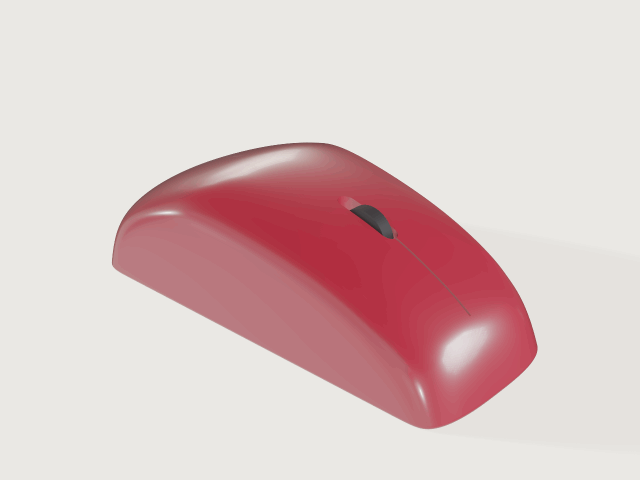
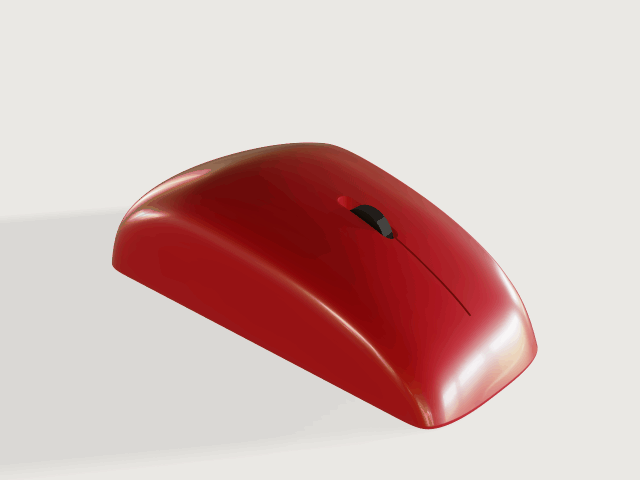
Tank and mouse thumbnails in the Workshop look (METHOD v5); Finding 6's stripe filter is built on main

Changed region(s): [[0.1562, 0.2812, 0.8438, 0.9062]]

diff --git a/docs/design/surfacing.md b/docs/design/surfacing.md
@@ -105,9 +105,9 @@ Built 2026-10-30 (surf-ca3) on stage 2: `hold_tangent` localises three rows when
 
 **Finding 3: crossing curves that leave against the face's tangent plane move far.** The side's curves first left the shoulder almost straight down (77° below horizontal) where the crown leaves it at about 35°: the tangent hold turns each curve's first leg into the crown's plane keeping its speed, and the side bulged 50 mm beyond its curves, through the block it was cut from, which left a flat ellipse of the block's face in the tank (seen in the zebra and the curvature map as a uniform patch, its curvature 0). Steeper crown sections (five points, the shoulder ends at about 60°) fixed the design; the tank asserts its width so that a parameter that makes the side bulge fails by name.
 
-**Finding 6: highlight lines on the tank's sides (2026-10-31, the coordinator's review).** Two things in `tank-highlight-lines.png`. *The moiré, rings and flat grey on the sides and the shoulder* are the analysis renderer, not the surface: highlight lines are spaced as `stripes / |N·M|` and grow without bound towards a vertical face; where they get finer than a sample they alias, and where `|N·M| < 0.05` (`GRAZING`) the sample is drawn neutral grey by design. At 6 stripes instead of 24 the crown is clean and the sides still alias. The shading has no band limit: owed (below). *The horizontal wavy band along the side above the knee* is the grazing contour: it coincides with the band where the draft against +z is under 2.9° (`measure.draft`'s analysis, `pull` [0, 0, 1], `minDraft` 2.9: `sin 2.9° ≈ 0.05`), the line where the side turns vertical. It waves because the bulge and the knee move where the side is vertical, which is the shape as designed; it is not a fold: the mean and the largest curvature maps run on smoothly through it (no band, no change of sign), and zebra stripes at 16 cross it without a kink. Evidence: `w-band.png` (highlight lines beside the draft band), `w-grid.png` (6 highlight lines, the curvature maps and 16 zebra stripes seen square to the side).
+**Finding 6: highlight lines on the tank's sides (2026-10-31, the coordinator's review).** Two things in `tank-highlight-lines.png`. *The moiré, rings and flat grey on the sides and the shoulder* are the analysis renderer, not the surface: highlight lines are spaced as `stripes / |N·M|` and grow without bound towards a vertical face; where they get finer than a sample they alias, and where `|N·M| < 0.05` (`GRAZING`) the sample is drawn neutral grey by design. At 6 stripes instead of 24 the crown is clean and the sides still alias. The shading had no band limit then (built since, below). *The horizontal wavy band along the side above the knee* is the grazing contour: it coincides with the band where the draft against +z is under 2.9° (`measure.draft`'s analysis, `pull` [0, 0, 1], `minDraft` 2.9: `sin 2.9° ≈ 0.05`), the line where the side turns vertical. It waves because the bulge and the knee move where the side is vertical, which is the shape as designed; it is not a fold: the mean and the largest curvature maps run on smoothly through it (no band, no change of sign), and zebra stripes at 16 cross it without a kink. Evidence: `w-band.png` (highlight lines beside the draft band), `w-grid.png` (6 highlight lines, the curvature maps and 16 zebra stripes seen square to the side).
 
-*Owed: stripes filtered over the sample's footprint (zebra and highlight lines, both renderers).* Not built here: more than a few hours with parity. Method: the stripe is a square wave of the phase `φ` with duty `width`; over a sample's footprint the phase changes by `w = |∂φ/∂x| + |∂φ/∂y|` (screen pixels), and the box-filtered value is the dark share of `[φ − w/2, φ + w/2]`, in closed form from the integral of the square wave (`F(φ) = floor(φ)·width + min(fract(φ), width)`, the share `(F(φ + w/2) − F(φ − w/2)) / w`, the plain test where `w` is below about 1e-3), which fades to the mean `width` where `w ≥ 1` instead of aliasing. The GPU has `w` from `fwidth(phase)` (2 × 2 quad differences). The CPU oracle shades one sample at a time and needs the same derivative: per triangle the barycentrics' screen gradients are constant, so the interpolated normal's and point's gradients are, and `∂φ/∂x` follows by the chain rule through `analysis::Resolved::phase` (for zebra `φ = atan2(r·b₂, r·b₁)` with `r` the reflection; for highlight lines the line through the normal meeting the plane); the derivative of the normalised normal included. Parity: the GPU's quad differences are the analytic gradient within a triangle to first order; where they differ (a quad across a triangle edge) the doubt band of `gpu/tests/analysis.rs` is widened by the share's change for a shift of the footprint by its own size. Tests: a stripe-frequency sweep on a cylinder seen square to its axis (highlight lines whose spacing on the screen is known in closed form), the picture's mean over a band of rows equal to `width` within 2 levels where the stripes are finer than a pixel and the unfiltered pattern where they are coarser than 8 pixels, on both renderers; the moiré limit of *Stage 1* then goes.
+*Built since (2026-10-31, on main): the stripes are filtered over the sample's footprint in both renderers, so where they get finer than a pixel they fade to the mean (Stage 1 › *Band limit*).*
 
 **Finding 7: a held edge was cut a rounding short of the face's border (2026-10-31, the class-A review's M2).** Testing the rows' rounding on an inner line (`continuity::tests::the_rows_rounding_is_within_its_allowance_on_an_inner_line`) showed a row's middle control point 9.4e-12 off the net's combination, 550 times its allowance: the edge's ends projected 2.5e-11 inside the face's border in the running parameter, so `iso_track_along` cut the line there (a knot insertion that moves the control points by the cut, not an error of the geometry, but rows that no longer are the net's own). Now an end that lies within the tolerance of where the line meets the border is cut at the border (as `at` is put on the border within `SAME_KNOT`); the rows of an edge that runs border to border are the net's combinations exactly. Where an edge really ends inside the face the cut is kept.
 
